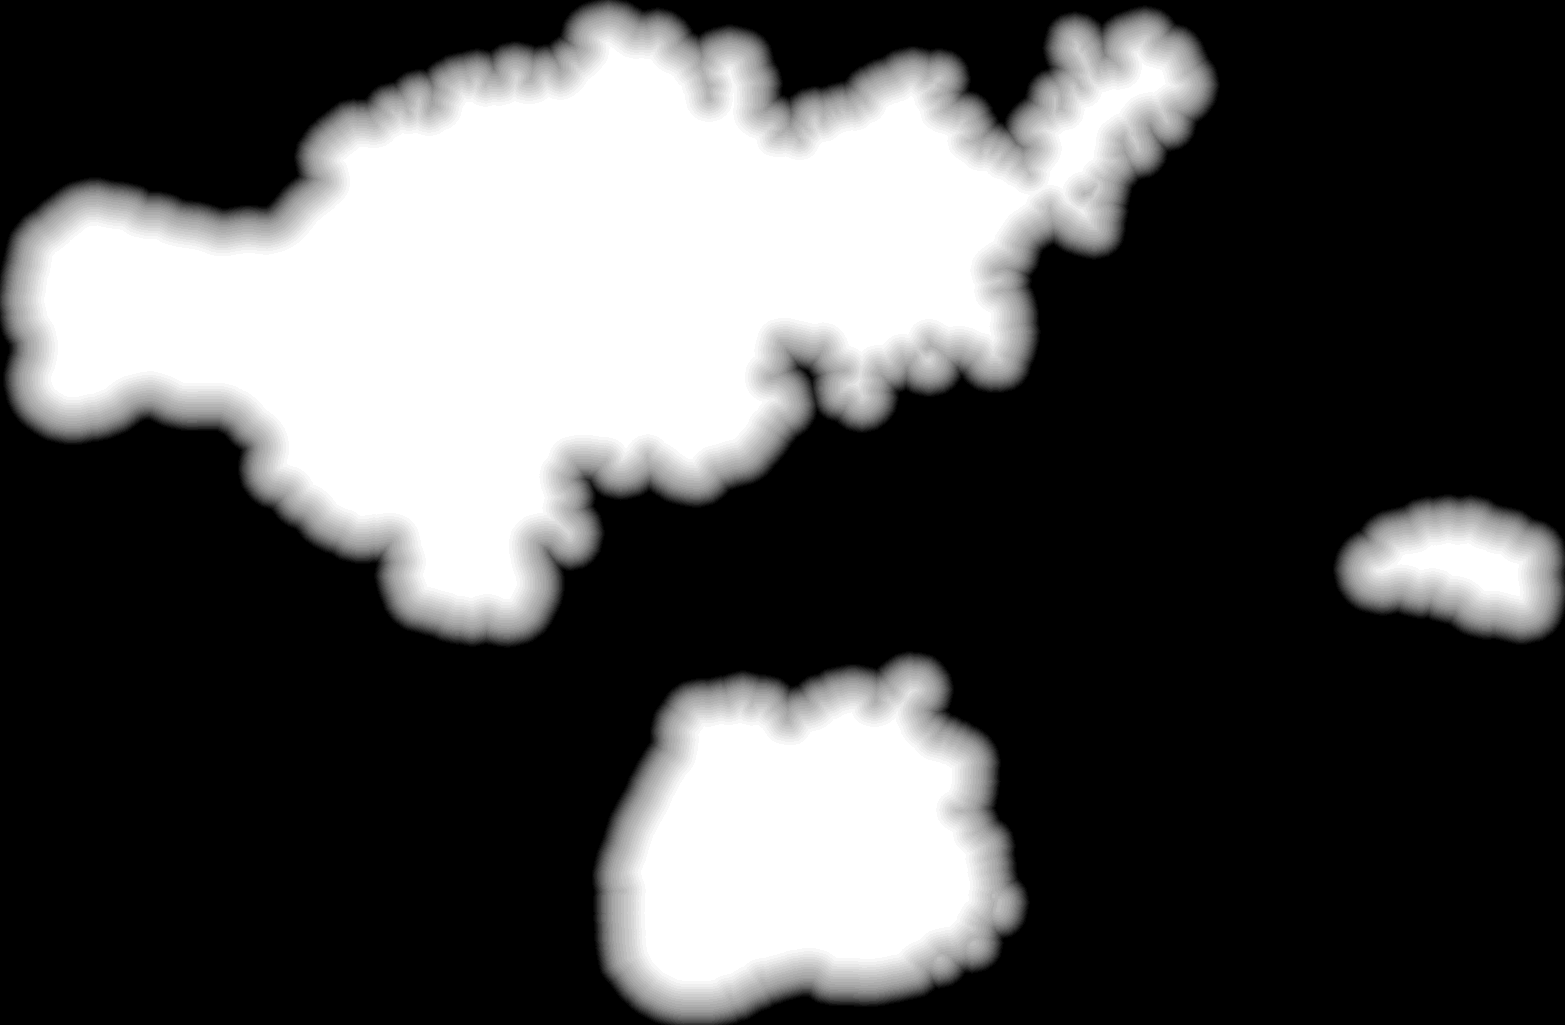
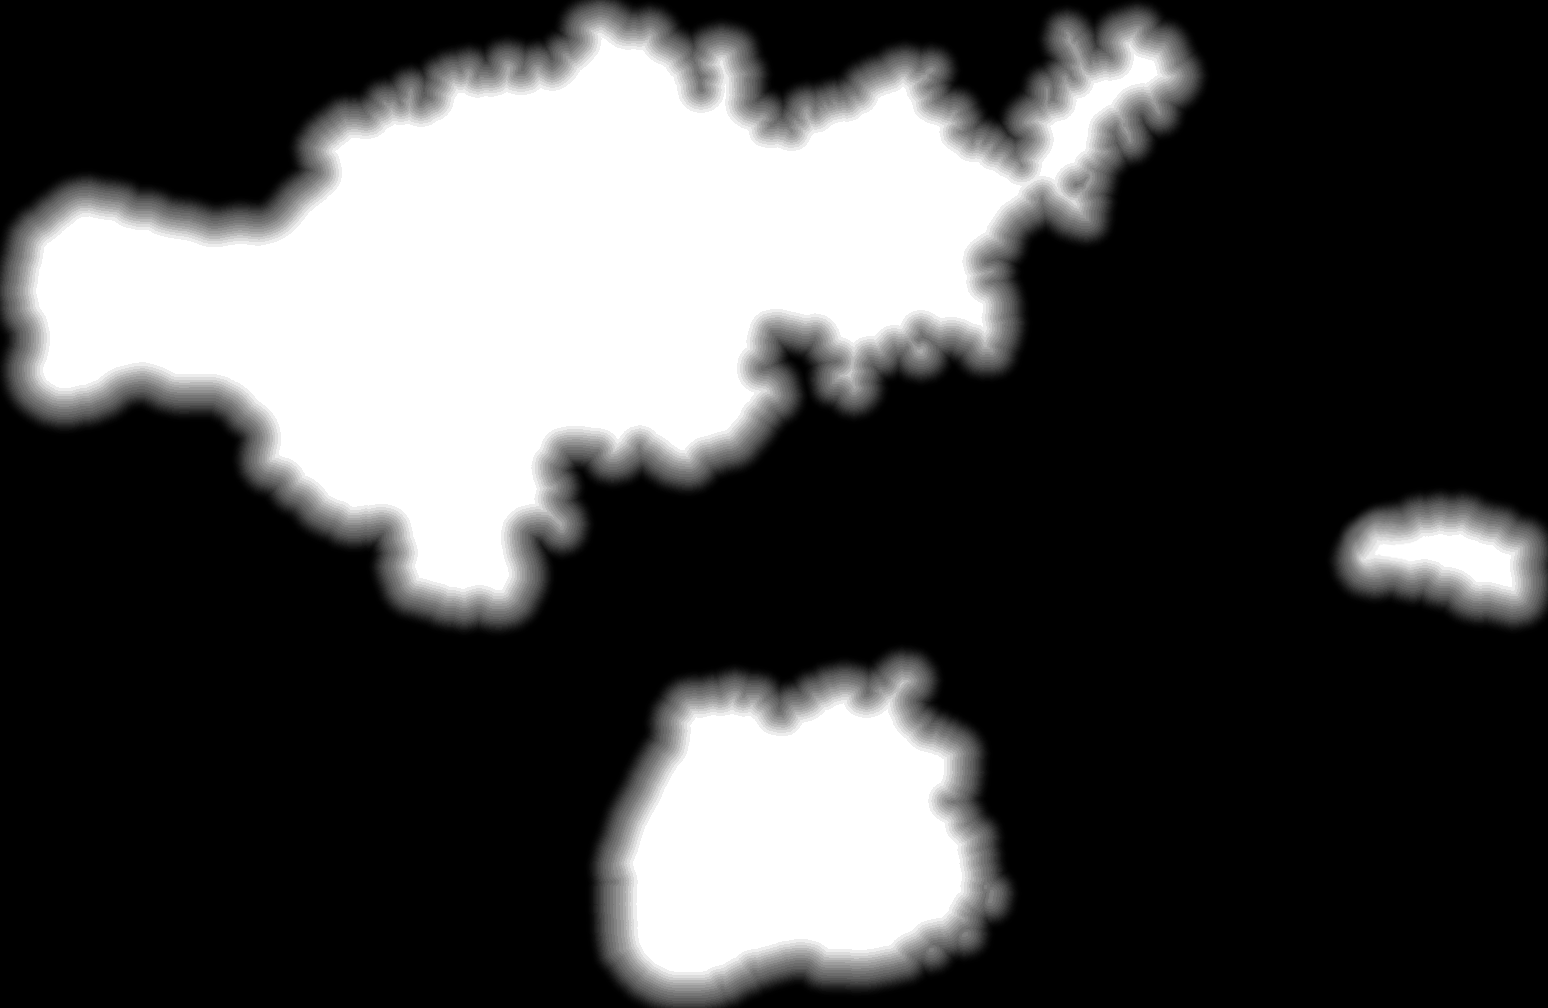
fix the forbidden west play area edge
the game reads border_full as srgb, so the mask is now linearised the same way, with a hand edit for a reachable spot the game's own map fogs. the hatch is also doubled to 256 m to match how it looks in game

diff --git a/src/lib/map.js b/src/lib/map.js
@@ -8,7 +8,7 @@ const REVEAL_SOLID = 0.3
 const CLOUD_METRES = 16384
 const CELL_FADE_METRES = 150
 const CELL_ROUND_METRES = 150
-const HATCH_METRES = 128
+const HATCH_METRES = 256
 const FOV = 30 * Math.PI / 180
 const MESH = 128
 const MESH_SIZES = [8, 16, 32, 64, 128]
